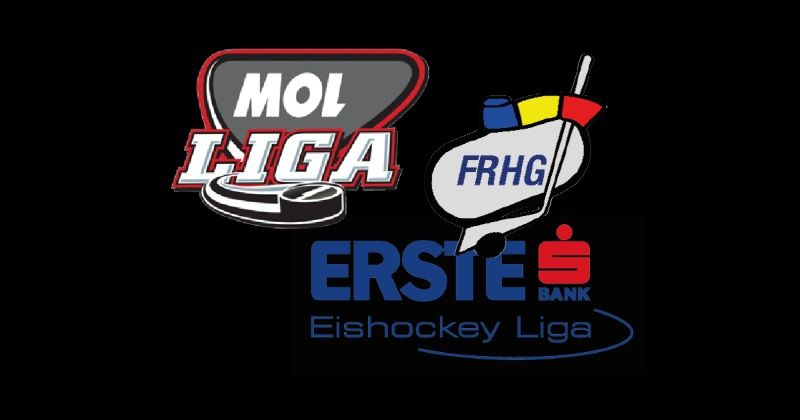
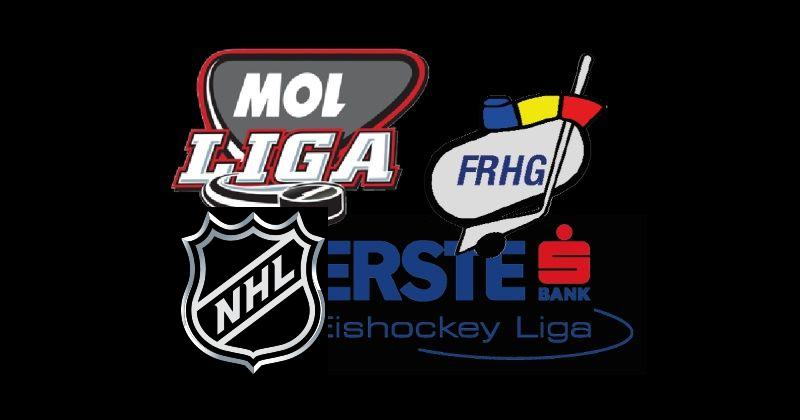
home state

Changed region(s): [[0.2188, 0.4952, 0.4375, 0.8976]]

diff --git a/pages/home.html b/pages/home.html
@@ -1,0 +1,19 @@
+<div class="container">
+    <div class="row">
+        <div class="col-xs-6 col-sm-4 col-md-3 home-link-div">
+			<a ui-sref="nhl"><img src="img/nhl.png"><br>NHL 2016/17</a>
+		</div>
+        <div class="col-xs-6 col-sm-4 col-md-3 home-link-div">
+			<a ui-sref="mol"><img src="img/mol.png"><br>MOL Liga 2016/17</a>
+		</div>
+		<div class="col-xs-6 col-sm-4 col-md-3 home-link-div">
+			<a ui-sref="ebel"><img src="img/ebel.png"><br>EBEL 2016/17</a>
+		</div>
+		<div class="col-xs-6 col-sm-4 col-md-3 home-link-div">
+			<a ui-sref="lnh"><img src="img/lnh.png"><br>LNH 2016/17</a>
+		</div>
+		<div class="col-xs-6 col-sm-4 col-md-3 home-link-div">
+			<a ui-sref="mk"><img src="img/mjsz.png"><br>MK 2016/17</a>
+		</div>
+    </div>
+</div>

diff --git a/js/app.js b/js/app.js
@@ -21,6 +21,12 @@ angular.module('molApp', ['chart.js', 'ngResource', 'ui.router'])
 
 .config(function($stateProvider, $urlRouterProvider) {
     $stateProvider
+	.state({
+        name: 'home',
+        url: '/home',
+        templateUrl: 'pages/home.html',
+        data: { pageTitle: 'Home - Ice Hockey Attendance Stats' },
+    })
     .state({
         name: 'mol',
         url: '/mol',
@@ -72,6 +78,6 @@ angular.module('molApp', ['chart.js', 'ngResource', 'ui.router'])
         }
     })
 
-  $urlRouterProvider.otherwise('/mol');
+  $urlRouterProvider.otherwise('/home');
 })
 ;

diff --git a/css/style.css b/css/style.css
@@ -51,6 +51,15 @@ footer .row {
     padding-bottom: 10px;
     line-height: 40px;
 }
+.home-link-div {
+	margin-bottom: 20px;
+	text-align: center;
+	font-size: 16px;
+	font-family: 'Archivo Narrow', sans-serif;
+}
+.home-link-div img {
+	width: 150px;
+}
 
 .divider-space {
     content: "&nbsp;";
